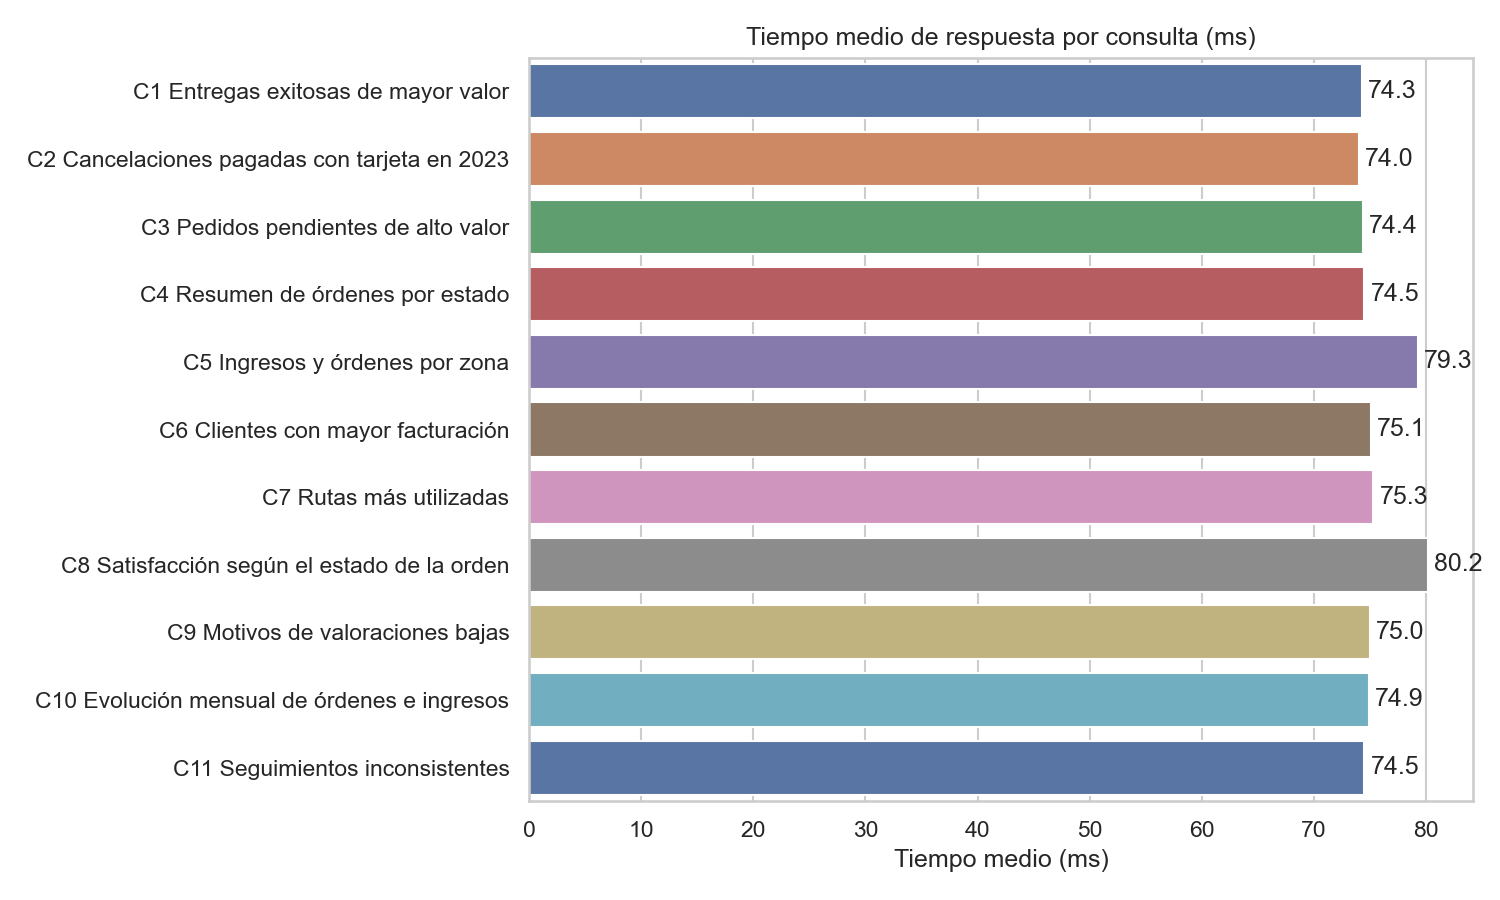
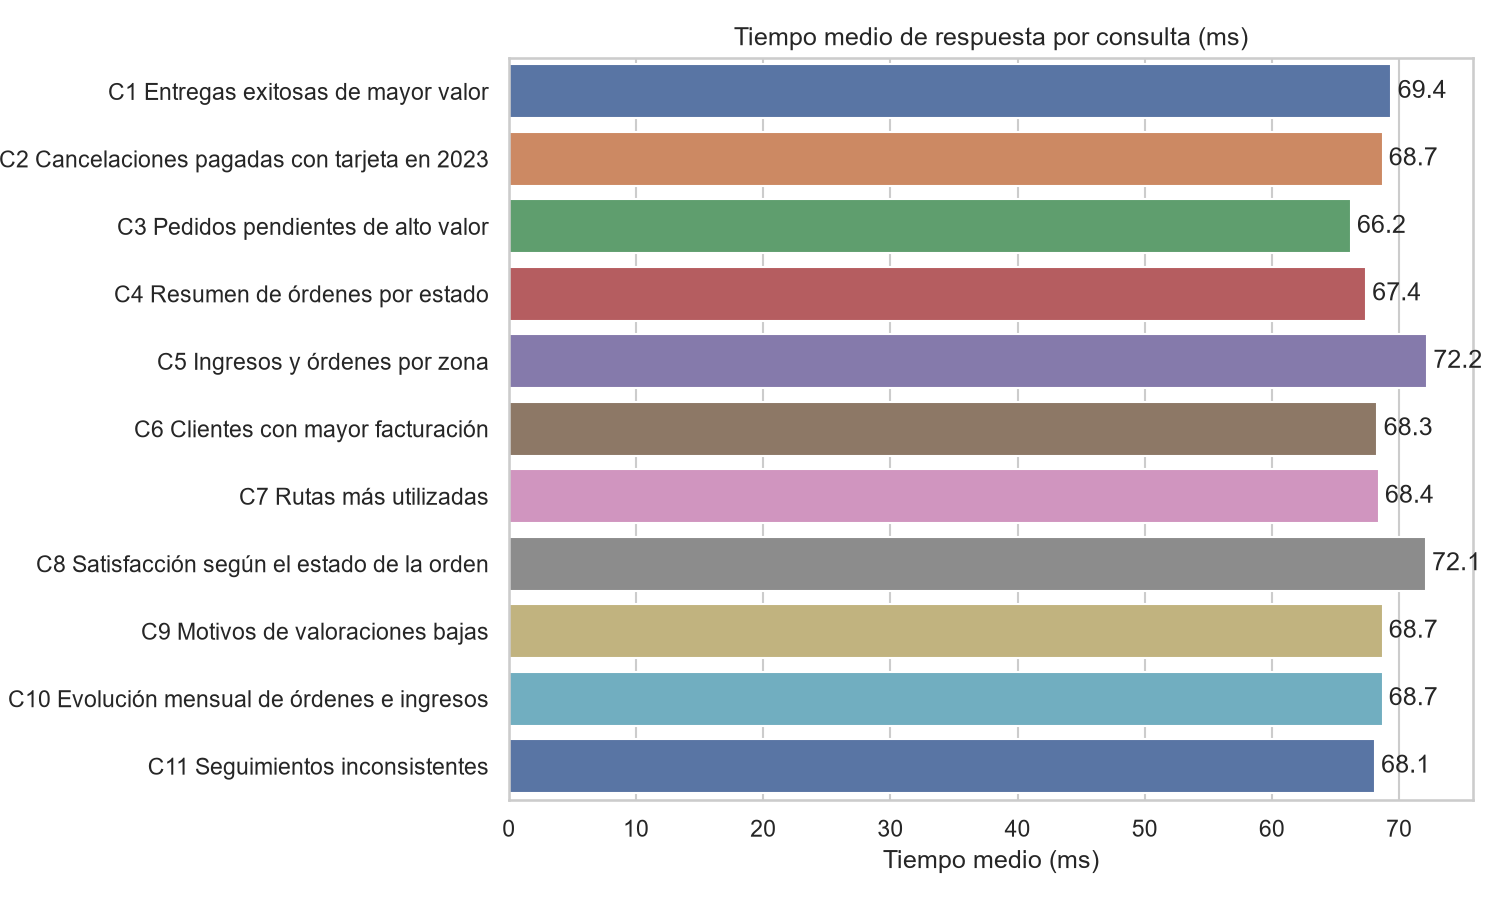
IE3 e IE6: indices compuestos y evidencias de Compass y terminal

diff --git a/scripts/indices_compuestos.py b/scripts/indices_compuestos.py
@@ -1,0 +1,272 @@
+"""IE6: evaluación de eficiencia con índices compuestos.
+
+Mide, para las consultas C1, C2 y C3 de consultas_quicktrack.py, cuántos
+documentos y claves examina MongoDB ANTES (índice simple sobre `estado`) y
+DESPUÉS de crear índices compuestos. Verifica que los resultados no cambien
+y guarda la evidencia en la carpeta `evidencias`.
+
+Uso:
+    python scripts\\indices_compuestos.py              # mide, crea índices y vuelve a medir
+    python scripts\\indices_compuestos.py --eliminar   # elimina los índices compuestos
+"""
+import argparse
+import getpass
+import logging
+import os
+import time
+from datetime import datetime
+from pathlib import Path
+
+import matplotlib
+
+matplotlib.use("Agg")  # solo guarda el gráfico, no abre ventana
+import matplotlib.pyplot as plt
+import pandas as pd
+import seaborn as sns
+from pymongo import ASCENDING, DESCENDING, MongoClient
+from pymongo.errors import PyMongoError
+
+BASE_DIR = Path(__file__).resolve().parent
+SALIDA_DIR = BASE_DIR.parent / "evidencias"
+if not SALIDA_DIR.exists():
+    SALIDA_DIR = BASE_DIR
+
+DB_NAME = os.getenv("MONGO_DB", "QuickTrack")
+COLECCION = "ordenes_entrega"
+REPETICIONES = 20
+
+logging.basicConfig(
+    level=logging.INFO,
+    format="%(asctime)s | %(levelname)s | %(message)s",
+    handlers=[
+        logging.FileHandler(SALIDA_DIR / "indices.log", encoding="utf-8"),
+        logging.StreamHandler(),
+    ],
+)
+log = logging.getLogger("indices_compuestos")
+
+# Índice simple que usan hoy las tres consultas (creado por carga_quicktrack.py).
+INDICE_BASE = [("estado", ASCENDING)]
+
+# Índices compuestos propuestos: igualdad primero (estado, medio_pago),
+# luego el campo de orden/rango (total o fecha_envio).
+INDICES_NUEVOS = {
+    "idx_estado_total_desc": [("estado", ASCENDING), ("total", DESCENDING)],
+    "idx_estado_pago_fecha": [("estado", ASCENDING), ("medio_pago", ASCENDING), ("fecha_envio", ASCENDING)],
+}
+
+PROY_ORDEN = {"_id": 1, "cliente_id": 1, "estado": 1, "medio_pago": 1, "fecha_envio": 1, "total": 1}
+
+# Mismos filtros, orden y límite que C1, C2 y C3 de consultas_quicktrack.py.
+CONSULTAS = [
+    {
+        "id": "C1",
+        "titulo": "Entregas exitosas de mayor valor",
+        "filtro": {"estado": "Entregado", "total": {"$gte": 100000}},
+        "orden": [("total", -1)],
+        "limite": 10,
+        "indice_nuevo": "idx_estado_total_desc",
+    },
+    {
+        "id": "C2",
+        "titulo": "Cancelaciones pagadas con tarjeta en 2023",
+        "filtro": {
+            "estado": "Cancelado",
+            "medio_pago": "Tarjeta",
+            "fecha_envio": {"$gte": datetime(2023, 1, 1), "$lt": datetime(2024, 1, 1)},
+        },
+        "orden": [("fecha_envio", 1)],
+        "limite": 0,
+        "indice_nuevo": "idx_estado_pago_fecha",
+    },
+    {
+        "id": "C3",
+        "titulo": "Pedidos pendientes de alto valor",
+        "filtro": {"estado": {"$in": ["En preparación", "En tránsito"]}, "total": {"$gte": 150000}},
+        "orden": [("total", -1)],
+        "limite": 10,
+        "indice_nuevo": "idx_estado_total_desc",
+    },
+]
+
+
+def construir_cursor(db, consulta, hint):
+    cursor = db[COLECCION].find(consulta["filtro"], PROY_ORDEN).hint(hint)
+    if consulta.get("orden"):
+        cursor = cursor.sort(consulta["orden"])
+    if consulta.get("limite"):
+        cursor = cursor.limit(consulta["limite"])
+    return cursor
+
+
+def hay_etapa(nodo, etapa):
+    """Busca de forma recursiva una etapa (por ejemplo SORT) en el plan ganador."""
+    if isinstance(nodo, dict):
+        if nodo.get("stage") == etapa:
+            return True
+        return any(hay_etapa(v, etapa) for v in nodo.values())
+    if isinstance(nodo, list):
+        return any(hay_etapa(v, etapa) for v in nodo)
+    return False
+
+
+def medir(db, consulta, hint, escenario, nombre_indice):
+    plan = construir_cursor(db, consulta, hint).explain()
+    stats = plan.get("executionStats", {})
+    ids = [doc["_id"] for doc in construir_cursor(db, consulta, hint)]
+
+    tiempos = []
+    for _ in range(REPETICIONES):
+        inicio = time.perf_counter()
+        list(construir_cursor(db, consulta, hint))
+        tiempos.append((time.perf_counter() - inicio) * 1000)
+
+    return {
+        "id": consulta["id"],
+        "consulta": f"{consulta['id']} {consulta['titulo']}",
+        "escenario": escenario,
+        "indice": nombre_indice,
+        "documentos_devueltos": stats.get("nReturned", len(ids)),
+        "claves_examinadas": stats.get("totalKeysExamined"),
+        "documentos_examinados": stats.get("totalDocsExamined"),
+        "orden_en_memoria": hay_etapa(plan.get("queryPlanner", {}).get("winningPlan", {}), "SORT"),
+        "tiempo_servidor_ms": stats.get("executionTimeMillis"),
+        "tiempo_cliente_ms": round(sum(tiempos) / len(tiempos), 1),
+        "_ids": ids,
+    }
+
+
+def medir_todas(db, escenario):
+    filas = []
+    for consulta in CONSULTAS:
+        if escenario == "antes":
+            hint, nombre = INDICE_BASE, "estado_1"
+        else:
+            hint = nombre = consulta["indice_nuevo"]
+        fila = medir(db, consulta, hint, escenario, nombre)
+        log.info(
+            "%s %s [%s]: %s devueltos, %s claves, %s documentos examinados, orden en memoria: %s",
+            consulta["id"], escenario, nombre, fila["documentos_devueltos"], fila["claves_examinadas"],
+            fila["documentos_examinados"], "sí" if fila["orden_en_memoria"] else "no",
+        )
+        filas.append(fila)
+    return filas
+
+
+def crear_indices(db):
+    for nombre, claves in INDICES_NUEVOS.items():
+        db[COLECCION].create_index(claves, name=nombre)
+        log.info("Índice %s creado o ya existente: %s", nombre, claves)
+
+
+def eliminar_indices(db):
+    existentes = db[COLECCION].index_information()
+    for nombre in INDICES_NUEVOS:
+        if nombre in existentes:
+            db[COLECCION].drop_index(nombre)
+            log.info("Índice %s eliminado", nombre)
+        else:
+            log.info("Índice %s no existe, no se elimina", nombre)
+
+
+def validar_resultados(antes, despues):
+    """Un índice debe cambiar el costo de la consulta, no su resultado."""
+    ok_total = True
+    for a, d in zip(antes, despues):
+        iguales = a["_ids"] == d["_ids"]
+        ok_total = ok_total and iguales
+        nivel = logging.INFO if iguales else logging.ERROR
+        log.log(nivel, "%s: resultados %s antes y después del índice", a["id"], "idénticos" if iguales else "DISTINTOS")
+    return ok_total
+
+
+def resumen_mejora(antes, despues):
+    filas = []
+    for a, d in zip(antes, despues):
+        ex_a, ex_d = a["documentos_examinados"], d["documentos_examinados"]
+        reduccion = round(100 * (ex_a - ex_d) / ex_a, 1) if ex_a else None
+        filas.append(
+            {
+                "consulta": a["consulta"],
+                "docs_examinados_antes": ex_a,
+                "docs_examinados_despues": ex_d,
+                "reduccion_pct": reduccion,
+                "orden_en_memoria_antes": a["orden_en_memoria"],
+                "orden_en_memoria_despues": d["orden_en_memoria"],
+                "indice_nuevo": d["indice"],
+            }
+        )
+    return pd.DataFrame(filas)
+
+
+def guardar_evidencias(antes, despues):
+    columnas = [
+        "consulta", "escenario", "indice", "documentos_devueltos", "claves_examinadas",
+        "documentos_examinados", "orden_en_memoria", "tiempo_servidor_ms", "tiempo_cliente_ms",
+    ]
+    detalle = pd.DataFrame(antes + despues)[columnas + ["id"]]
+    detalle[columnas].to_csv(SALIDA_DIR / "indices_antes_despues.csv", index=False, encoding="utf-8-sig")
+
+    sns.set_theme(style="whitegrid", context="notebook")
+    plt.figure(figsize=(9, 5))
+    grafico = sns.barplot(
+        data=detalle, x="id", y="documentos_examinados", hue="escenario",
+        hue_order=["antes", "despues"], palette=["#c44e52", "#4c72b0"],
+    )
+    for contenedor in grafico.containers:
+        grafico.bar_label(contenedor, fmt="%d", padding=3)
+    plt.title("Documentos examinados: índice simple vs índices compuestos")
+    plt.xlabel("Consulta")
+    plt.ylabel("Documentos examinados")
+    plt.tight_layout()
+    plt.savefig(SALIDA_DIR / "indices_antes_despues.png", dpi=150)
+    plt.close()
+
+
+def main():
+    parser = argparse.ArgumentParser(description="Evaluación de índices compuestos (IE6)")
+    parser.add_argument("--eliminar", action="store_true", help="elimina los índices compuestos y termina")
+    args = parser.parse_args()
+
+    uri = os.getenv("MONGO_URI") or getpass.getpass("URI de conexión de MongoDB Atlas: ")
+    cliente = None
+    try:
+        cliente = MongoClient(uri, serverSelectionTimeoutMS=8000)
+        cliente.admin.command("ping")
+        log.info("Conexión exitosa con MongoDB (base %s)", DB_NAME)
+        db = cliente[DB_NAME]
+
+        if args.eliminar:
+            eliminar_indices(db)
+            return
+
+        log.info("Midiendo ANTES (índice simple sobre estado)")
+        antes = medir_todas(db, "antes")
+
+        crear_indices(db)
+
+        log.info("Midiendo DESPUÉS (índices compuestos)")
+        despues = medir_todas(db, "despues")
+
+        resultados_ok = validar_resultados(antes, despues)
+        resumen = resumen_mejora(antes, despues)
+        guardar_evidencias(antes, despues)
+
+        print("\n" + "=" * 78)
+        print("Comparación de documentos examinados (antes vs después)")
+        print(resumen.to_string(index=False))
+        print(f"\nResultados idénticos antes y después: {'sí' if resultados_ok else 'NO, revisar'}")
+        print("\nÍndices actuales de ordenes_entrega:")
+        for nombre, info in db[COLECCION].index_information().items():
+            print(f"  {nombre}: {info['key']}")
+        print(f"\nEvidencias guardadas en: {SALIDA_DIR}")
+    except PyMongoError as error:
+        log.error("Error de MongoDB: %s", error)
+        raise SystemExit(1)
+    finally:
+        if cliente is not None:
+            cliente.close()
+
+
+if __name__ == "__main__":
+    main()

diff --git a/scripts/consultas_quicktrack.py b/scripts/consultas_quicktrack.py
@@ -16,7 +16,7 @@ SALIDA_DIR = BASE_DIR.parent / "evidencias"
 if not SALIDA_DIR.exists():
     SALIDA_DIR = BASE_DIR
 
-DB_NAME = "quicktrack"
+DB_NAME = os.getenv("MONGO_DB", "QuickTrack")
 REPETICIONES = 5
 
 logging.basicConfig(
